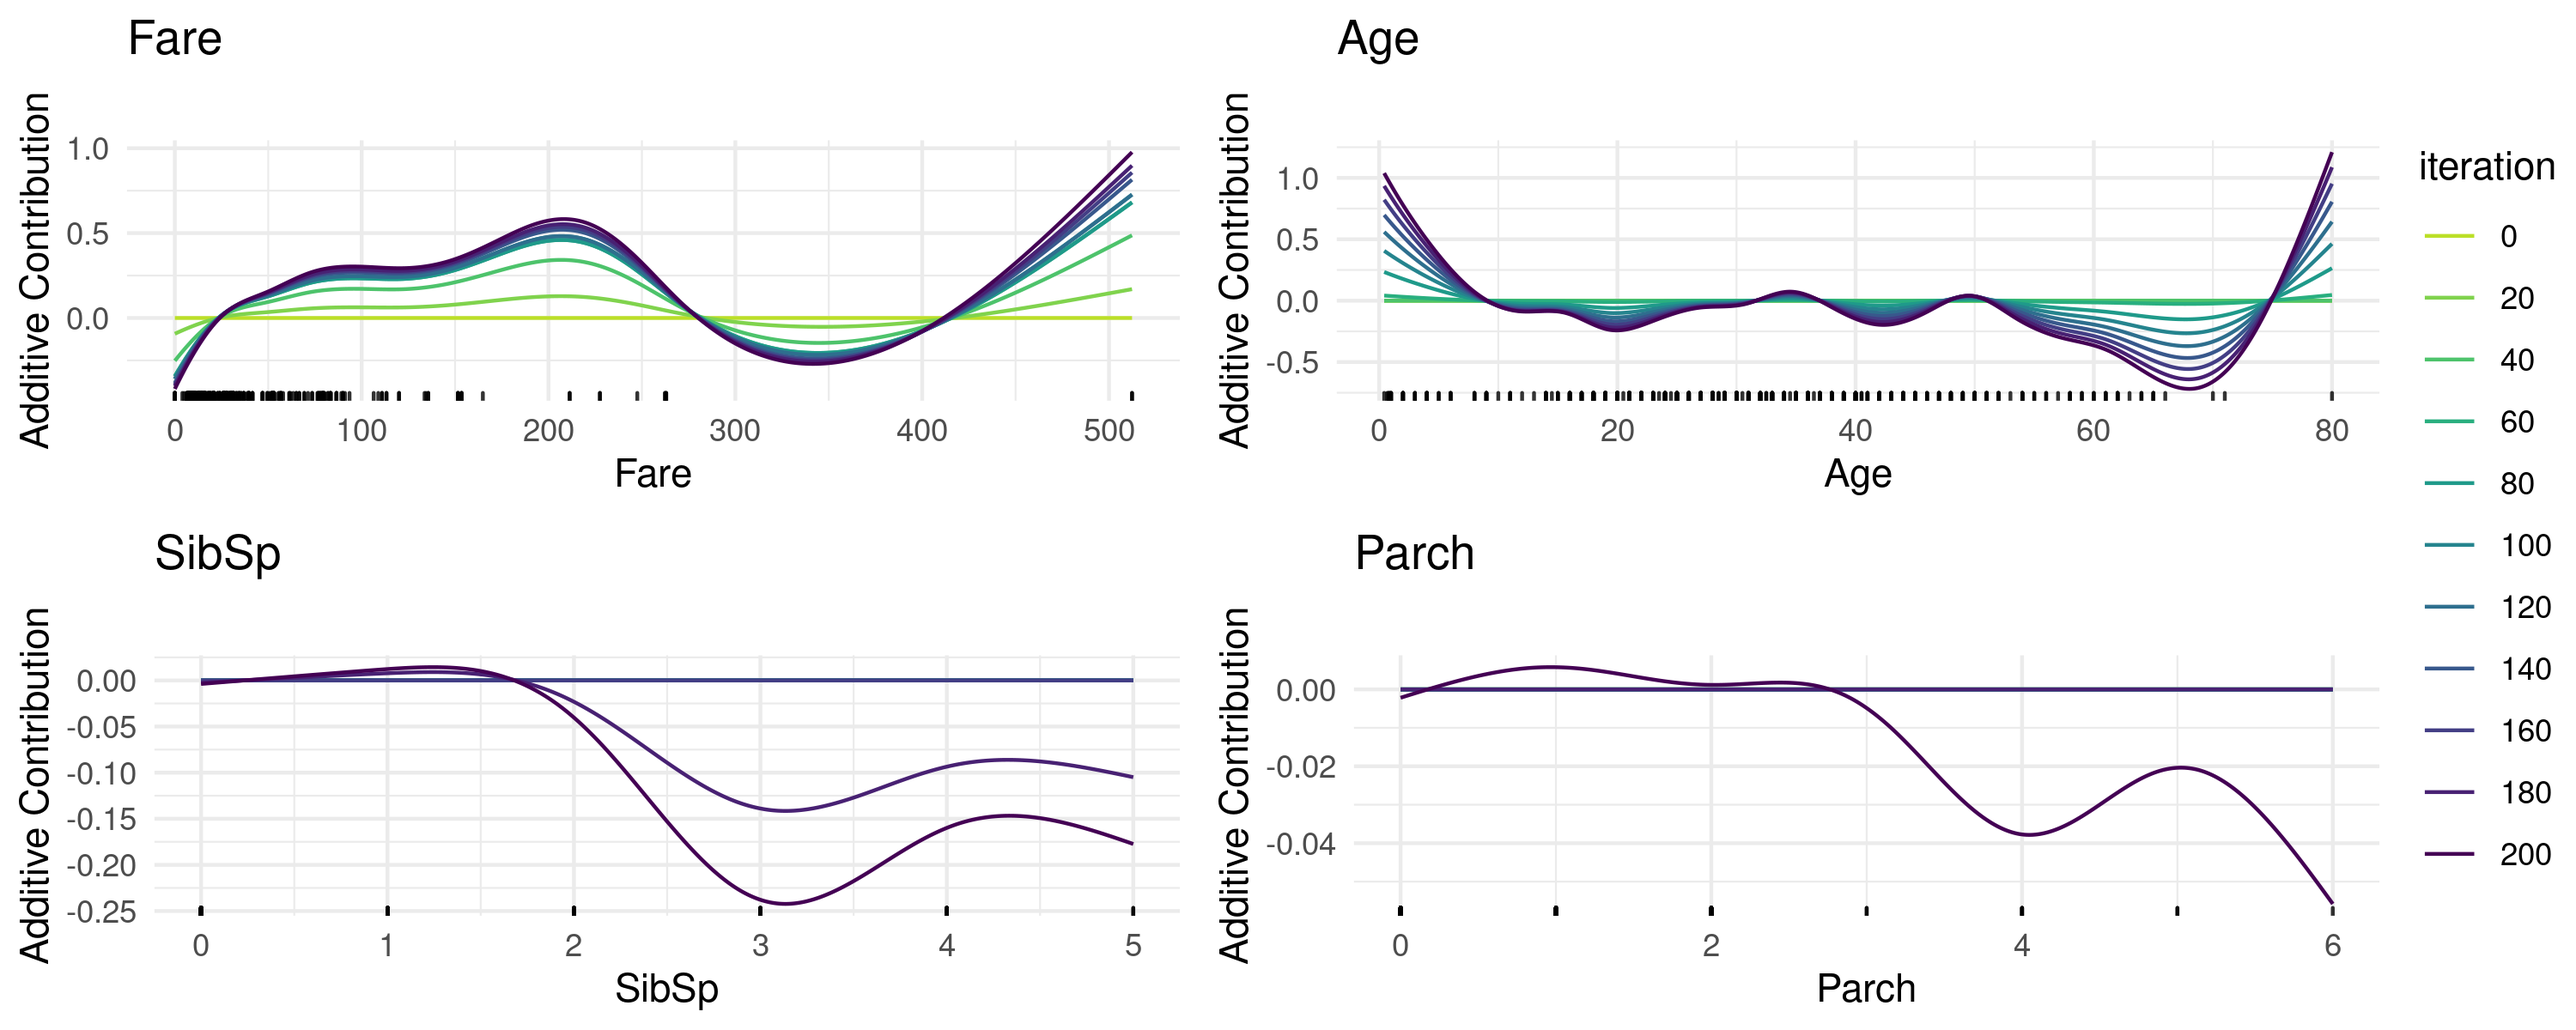
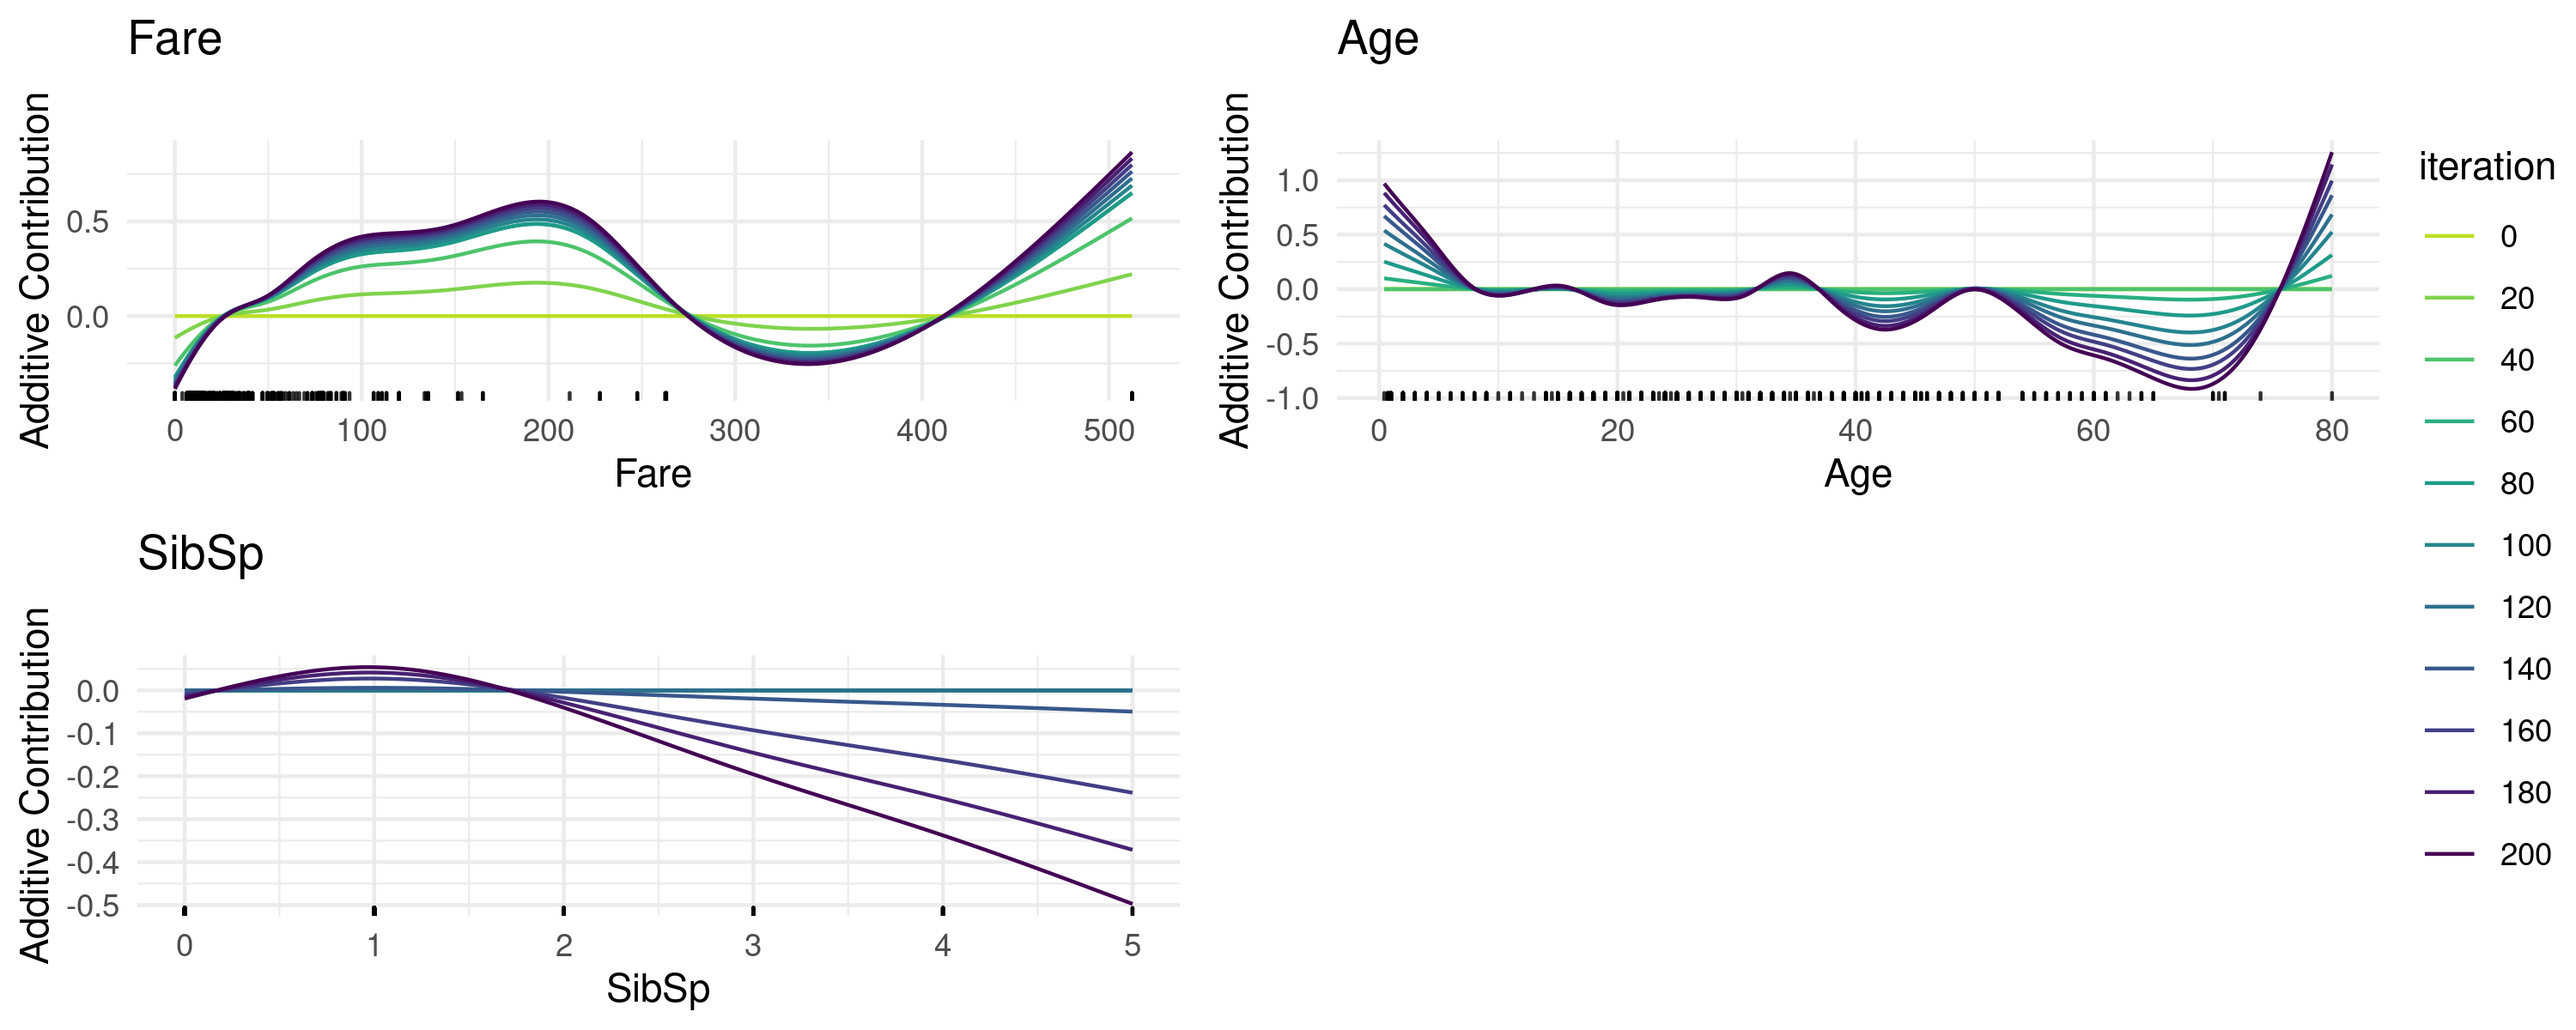
worked on titanic example

diff --git a/slides/boosting/slides-boosting-comp-boost.tex b/slides/boosting/slides-boosting-comp-boost.tex
@@ -180,7 +180,7 @@ $\rightarrow$ post-selection inference.
 \small
 Consider the \texttt{titanic} data, for which we fit a componentwise gradient 
 boosting model with linear base learners, using the R package \texttt{compboost} 
-with $M = 500$, to predict passengers' survival.
+with $M = 200$, to predict passengers' survival.
 We can visualize the updates of the $\theta_j$ over time to see which base 
 learner was selected when.
 
@@ -283,9 +283,9 @@ where
   \small
   \item This time we offer our model both 
   linear and nonlinear ($B$-spline) base learners for the numeric features.
-  \item By iteration 500, the model has selected 8 out of 16 features, 4 of 
+  \item By iteration 200, the model has selected 6 out of 16 features, 3 of 
   which are categorical (concerning sex and passenger class).
-  \item For the 4 numeric ones, the model always picks the nonlinear option. 
+  \item For the 3 numeric ones, the model always picks the nonlinear option. 
   We can trace how they evolve over the iterations:
 \end{itemize}
 
